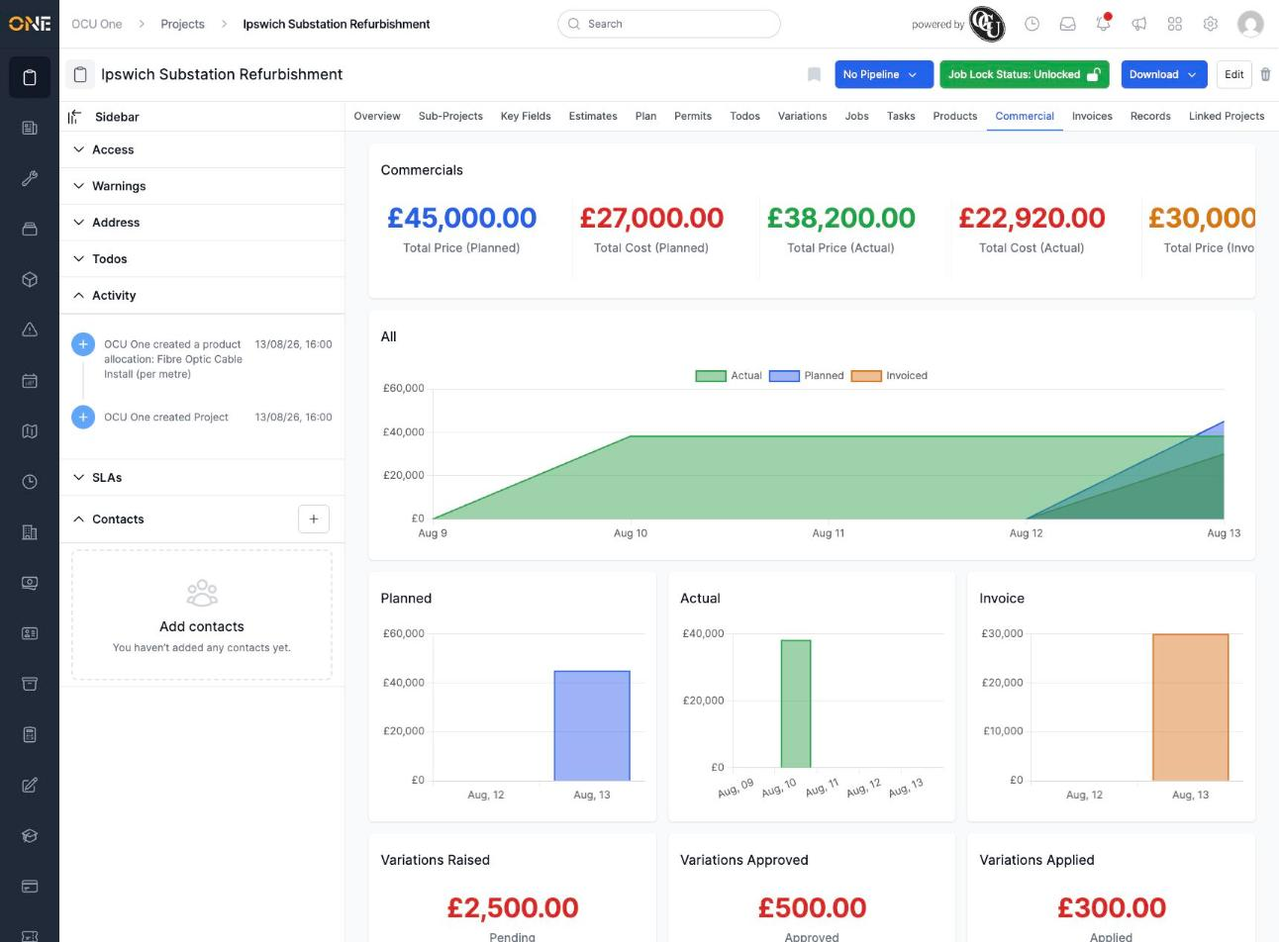
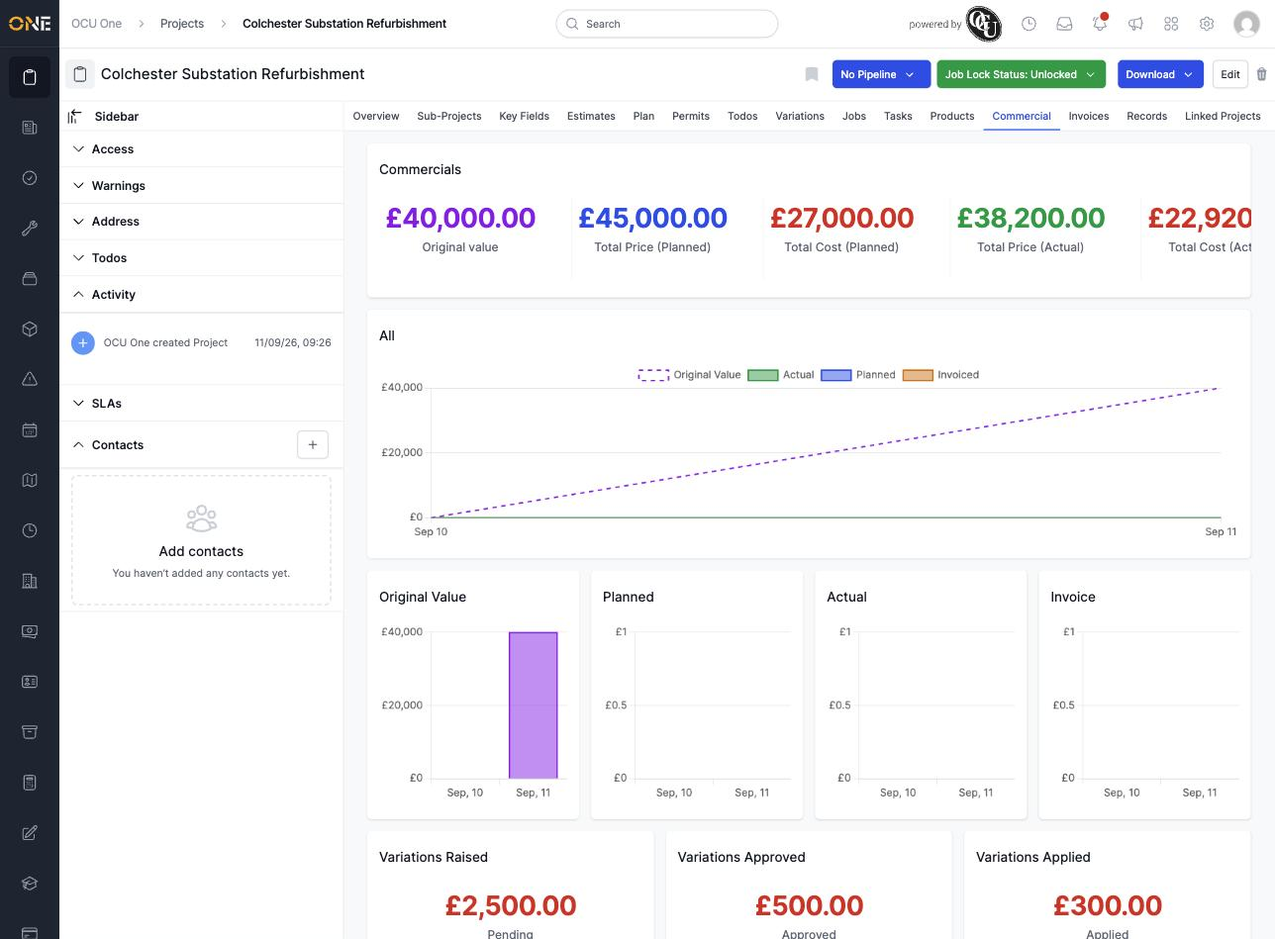
updated guides

diff --git a/_progress.md b/_progress.md
@@ -50,7 +50,7 @@ For the full chain — this sync plus the required `_VERIFICATION.md` and `READM
 | Customizing which columns appear in a list/table view | Views | Ops | ColumnsController#new/#autocomplete; columns/column_component; scenes/view/view_options_component | done | Projects list with columns Reference, Total Price (Planned), Client Lead added then reordered (no literal "Project Number"/"Total (ex VAT)" fields exist; these are the closest real on-screen equivalents) | 4 | 2026-08-16 | v2026.08.02 | |
 | Saving current filters/columns as a new personal view | Views | Ops, FE | ViewsController#create; scenes/view/view_options_component | done | Filtered Jobs list ("Status = In Progress", "Assigned to = me") saved as new view "My Active Jobs" | 3 | 2026-08-16 | v2026.08.02 | |
 | Renaming and updating an existing saved view | Views | Ops | ViewsController#update | done | Renaming view "Overdue Tickets" to "Overdue Tickets - This Week" after adding a Created-at filter (no due-date field exists on Tickets) | 2 | 2026-08-16 | v2026.08.02 | |
-| Switching between saved views on a list screen | Views | Ops, FE | ViewsController#show; scenes/view_component (view tabs) | needs update | Jobs list with tabs "Default view", "My Active Jobs" (favourited), "Unscheduled Jobs"; plus a Tasks-type saved view ("My Open Tasks") opened via a direct link | 3 | 2026-09-06 | v2026.08.04 (from v2026.08.02) | ViewsController#show's redirect for a Tasks-type view changed from `redirect_back_top` to `redirect_to tasks_path(view_id:)` — re-verify the direct-link "My Open Tasks" screenshot flow still matches |
+| Switching between saved views on a list screen | Views | Ops, FE | ViewsController#show; scenes/view_component (view tabs) | done | Jobs list with tabs "Default view", "My Active Jobs" (favourited), "Unscheduled Jobs"; plus a Tasks-type saved view ("My Open Tasks") opened via a direct link | 3 | 2026-09-11 | v2026.09.01 (from v2026.08.04) | |
 | Favouriting a saved view | Views | Ops, FE | ViewsController#favourite | done | Favouriting "Unscheduled Jobs" view (yellow star badge) | 1 | 2026-08-16 | v2026.08.02 | |
 | Managing all your saved views ("My Views") | Views | Ops | ViewsController#index/#edit/#move/#activate/#deactivate/#destroy | done | User with 5 saved views across Jobs/Tickets, one deactivated ("Old Backlog"), reordering two views | 4 | 2026-08-16 | v2026.08.02 | |
 | Managing saved views (admin) | Views | Admin | Settings::ViewsController#index/#filter/#edit/#update/#activate/#deactivate/#destroy | done | Admin Marcus Webb renaming Priya Nair's "Old Backlog" view, deactivating and reactivating it, then deleting it via the fixed settings-scoped Delete link | 8 | 2026-09-03 | v2026.08.04 (from v2026.08.02) | |
@@ -261,7 +261,7 @@ For the full chain — this sync plus the required `_VERIFICATION.md` and `READM
 | Viewing and moving projects on the pipeline (kanban) board |  | Sales, Ops | Orders::PipelinesController#index/show; OrdersController#stage | done | Existing "Sales" pipeline (New/Qualified/Awaiting Site Visit/Quoting/Negotiating/Won/Lost); dragged "Fibre Duct Replacement - Oldham" Quoting → Won | 4 | 2026-08-26 | v2026.08.05 | |
 | Creating a new project |  | Sales, Ops | OrdersController#new/#create | done | Project type "Install" for client "Anglian Water", rate book "2026 Civils Rates" | 5 | 2026-08-26 | v2026.08.05 | |
 | Creating a sub-project (child project) under an existing project |  | Ops | OrdersController#new (parent_id) | done | Parent project "Streetworks Renewal - Zone 4" with new sub-project "Zone 4 - Section B" | 3 | 2026-08-26 | v2026.08.05 | |
-| Viewing a project's overview (main tab) |  | Ops | OrdersController#show/#main | needs update | Project "123 High Street Resurfacing" with parent, 2 children | 4 | 2026-08-26 | v2026.08.05 | New "Original Value" field now shown on the overview when the project has one captured (app/views/orders/_order.html.erb) |
+| Viewing a project's overview (main tab) |  | Ops | OrdersController#show/#main | done | Project "123 High Street Resurfacing" with parent, 2 children, Original Value £18,500 vs current Total Price (Planned) £22,000 | 4 | 2026-09-11 | v2026.09.01 (from v2026.08.05) | |
 | Editing a project's details |  | Ops | OrdersController#edit/#update | done | Project's rate book changed and next-action date moved | 3 | 2026-08-26 | v2026.08.05 | |
 | Deleting (archiving) a project |  | Ops | OrdersController#destroy | done | Completed project with no open jobs, deleted | 2 | 2026-08-26 | v2026.08.05 | |
 | Managing sub-projects on the Children tab |  | Ops | OrdersController#children | done | Project "Streetworks Renewal - Zone 4" with 3 child projects, one over budget | 2 | 2026-08-26 | v2026.08.05 | |
@@ -275,10 +275,10 @@ For the full chain — this sync plus the required `_VERIFICATION.md` and `READM
 | Viewing and filtering tasks on a project |  | Ops | OrdersController#tasks; Orders::TasksController#filter | done | Project filtered by Status="In Progress", Task Type="Site Survey" | 2 | 2026-08-27 | v2026.08.05 | |
 | Creating a new task under a project |  | Ops | Orders::TasksController#new/#create | done | Task type "Site Survey" named "Initial roof survey" with product allocation | 3 | 2026-08-27 | v2026.08.05 | |
 | Viewing and working a task's overview tab |  | Ops, FE | Orders::TasksController#show/#main | done | Task status changed Not Started → In Progress; download PDF | 4 | 2026-08-27 | v2026.08.05 | |
-| Managing a task's product allocations tab | PVA | Ops | Orders::TasksController#products | needs update | Task planned quantity for "Solar Panel 400W" changed 12 → 14 | 2 | 2026-08-13 | v2026.08.02 | The "Add Product" control is now hidden entirely for Task allocatables (app/views/product_allocations/index.html.erb) — re-verify whether this tab still supports adding products at all |
+| Managing a task's product allocations tab | PVA | Ops | Orders::TasksController#products | done | Task "Install Panels - Roof Section A" on project "Riverside Depot Solar Installation"; Solar Panel 400W allocated 12 units from the project's 30, planned quantity changed 12 → 14, 10 units recorded as actually used | 2 | 2026-09-11 | v2026.09.01 (from v2026.08.02) | |
 | Editing or deleting a task |  | Ops | Orders::TasksController#edit/#update/#destroy | done | Rename a task; delete a duplicate task | 2 | 2026-08-27 | v2026.08.05 | |
 | Viewing and managing product allocations on a project | PVA | Ops, Fin | OrdersController#products | done | Project allocated 200m "Ducting 100mm" and 15 "Chamber Cover" | 3 | 2026-08-13 | v2026.08.02 | |
-| Viewing a project's commercial stats dashboard | PVA | Fin, Mgr | OrdersController#stats | needs update | Project with £45k planned, £38.2k actual, £30k invoiced, £2.5k pending variations | 3 | 2026-08-13 | v2026.08.03 | New "Original Value" stat tile and column chart now shown when the project has an original value captured; existing planned/actual/invoice charts shrink from 4 to 3 columns to make room (app/views/orders/tabs/stats.html.erb) |
+| Viewing a project's commercial stats dashboard | PVA | Fin, Mgr | OrdersController#stats | done | Project "Colchester Substation Refurbishment", £40k original value vs £45k current planned, £38.2k actual, £30k invoiced, £2.5k pending / £500 approved / £300 applied variations | 3 | 2026-09-11 | v2026.09.01 (from v2026.08.03) | |
 | Viewing and creating estimates on a project |  | Sales, Fin | OrdersController#estimates | done | Project with 1 draft and 1 approved estimate (£12,400) | 2 | 2026-08-27 | v2026.08.05 | |
 | Viewing and creating invoices on a project |  | Fin | OrdersController#invoices | done | Project with 1 sent invoice (£15,000) and 1 unsent draft (£8,200) | 2 | 2026-08-27 | v2026.08.05 | |
 | Viewing and raising variations on a project |  | Fin, Ops | OrdersController#variations | done | Project with 1 pending (£2,500) and 1 approved (£900) variation | 2 | 2026-08-27 | v2026.08.05 | |
@@ -349,14 +349,14 @@ For the full chain — this sync plus the required `_VERIFICATION.md` and `READM
 | Guide | Feature | Audience | Maps to (controllers/views) | Status | Test data needed | Screenshot steps (est.) | documented_at | Release | Change notes |
 |-------|-------|----------|------------------------------|--------|-------------------|--------------------------|----------------|-------|-------|
 | Using the Timesheets landing page | Timesheets | FE, Ops | TimesheetsController#landing | done | N/A — static entry page, viewed as Priya Nair (Ops) | 1 | 2026-09-04 | v2026.08.04 | |
-| Clocking in and starting a shift | Timesheets | FE | TimesheetsController#start_shift_form/#start_shift | needs update | Project code "PC-2026-OFFICE", planned duration 8h | 3 | 2026-08-15 | v2026.08.02 | Starting a shift while one is already active now shows a proper error message on the form (previously silent/unclear) |
+| Clocking in and starting a shift | Timesheets | FE | TimesheetsController#start_shift_form/#start_shift | done | Project code "PC-2026-OFFICE", planned duration 8h; Tom Fletcher hitting the "already have an active shift" error on a stale Start Shift panel | 4 | 2026-09-11 | v2026.09.01 (from v2026.08.02) | |
 | Ending a shift and confirming hours worked | Timesheets | FE | TimesheetsController#end_shift_form/#end_shift/#confirm_shift | done | Shift started 08:00 at "Riverside Substation", ended 16:30 | 3 | 2026-08-15 | v2026.08.02 | |
 | Viewing and editing an individual timesheet | Timesheets | FE, Mgr | TimesheetsController#show/new/edit/update/destroy | done | Timesheet "J. Smith - Approved", 04/08/2026, duration changed from 8h15m to 12h30m, project "Tesco Door Install" | 6 | 2026-09-03 | v2026.08.04 (from v2026.08.02) | |
 | Logging a break or other shift event | Timesheets | FE | EventsController CRUD (top-level, not namespaced) | done | Event "Lunch Break" 12:00, 30 min | 3 | 2026-08-15 | v2026.08.02 | |
 | Browsing all timesheets in the table view | Timesheets | Mgr, Fin | TimesheetsController#index/#filter | done | Filter status=pending, group="North Region Engineers" | 3 | 2026-08-15 | v2026.08.02 | |
 | Approving or denying timesheets for your team (weekly review grid) | Timesheets | Mgr | TimesheetsController#review/#status/#bulk_status | done | Week of 2026-08-10, manager Sarah Whitfield reviewing Tom Fletcher and Aisha Rahman's 5 pending entries; right-click approve, right-click deny, and the whole-week Total-cell bulk action | 8 | 2026-09-04 | v2026.08.04 (from v2026.08.02) | |
 | Adding or editing a timesheet entry from the review grid | Timesheets | Mgr | TimesheetsController#review_new/#review_create/#review_edit/#review_update/#review_entry_status | done | User "A. Fieldworker", date 2026-08-11, category "Overtime", 2h | 4 | 2026-08-15 | v2026.08.02 | |
-| Rounding or splitting a timesheet entry during review | Timesheets | Mgr | TimesheetsController#round/#split | needs update | Split shift 22:00–06:00 at midnight; round start to nearest 15 min | 3 | 2026-08-15 | v2026.08.02 | Split-time picker's midnight clamping logic reworked (wraparound-safe minutes math) — re-verify the 22:00–06:00 overnight split screenshot still behaves the same |
+| Rounding or splitting a timesheet entry during review | Timesheets | Mgr | TimesheetsController#round/#split | done | Split shift 22:00–06:00 at midnight (default 02:00, and a custom 00:30 split); round start to nearest hour | 4 | 2026-09-11 | v2026.09.01 (from v2026.08.02) | |
 
 ## Timesheet Timeline
 
@@ -534,7 +534,7 @@ For the full chain — this sync plus the required `_VERIFICATION.md` and `READM
 | Viewing and editing a product                        | PVA     | Admin, Fin | ProductsController#show/#main/#edit/#update/#delete_photo | done   | Product "HV Cable per metre" with photo and ref code                      | 3                       | 2026-08-26    | v2026.08.05 | |
 | Deleting a product                                   | PVA     | Admin, Fin | ProductsController#destroy                                | done   | Parent product with 3 sub-products, cascade-delete                        | 2                       | 2026-08-26    | v2026.08.05 | |
 | Managing sell rates on a product                     | PVA     | Fin, Admin | ProductsController#rates; RatesController (as :rates)     | done   | Sell rate £14.50/m for "HV Cable per metre" under "2026 Wind Rates" v1    | 4                       | 2026-08-13    | v2026.08.03 | |
-| Managing cost rates on a product                     | PVA     | Fin, Admin | ProductsController#costs; RatesController (as :costs)     | needs update   | Product "HV Cable per metre" with sell rate under "2026 Wind Rates" and cost rate £9.20/m under "Internal Costs 2026" v1; new cost rate added and existing one edited | 5                       | 2026-09-03    | v2026.08.04 (from v2026.08.03) | Form copy now says "Cost Book" instead of "Rate Book" for cost rates — update the guide's text for this. The Cancel-button bug (`cancelling-a-new-cost-rate-lands-on-the-rates-tab-not-costs`) is NOT fixed — re-verified live 2026-09-10, still lands on Rates tab; keep the guide's existing caveat about it. |
+| Managing cost rates on a product                     | PVA     | Fin, Admin | ProductsController#costs; RatesController (as :costs)     | done   | Product "HV Cable per metre" with cost rate £9.20/m under "Internal Costs 2026" v1; new cost rate added and existing one edited | 5                       | 2026-09-11    | v2026.09.01 (from v2026.08.04) | |
 | Viewing a product's sub-products                     | PVA     | Admin, Fin | ProductsController#sub_products                           | done   | Parent "Groundworks" with 2 sub-products                                  | 2                       | 2026-08-26    | v2026.08.05 | |
 
 ## Product Allocations
@@ -797,9 +797,9 @@ For the full chain — this sync plus the required `_VERIFICATION.md` and `READM
 
 ## Summary
 
-Completed: 169 / 399
+Completed: 176 / 399
 
-Needs update: 7
+Needs update: 0
 
 Access & Visibility guides completed: 3 / 3
 
@@ -807,13 +807,13 @@ Media & Attachments guides completed: 2 / 2
 
 Product Allocations guides completed: 7 / 7
 
-Products & Rates guides completed: 10 / 11
+Products & Rates guides completed: 11 / 11
 
-Projects guides completed: 30 / 33
+Projects guides completed: 33 / 33
 
-Timesheets guides completed: 16 / 18
+Timesheets guides completed: 18 / 18
 
-Views guides completed: 8 / 9
+Views guides completed: 9 / 9
 
 Tickets guides completed: 12 / 12
 
@@ -863,4 +863,4 @@ Release breakdown (current version only, for `done` rows):
 - v2026.08.03: 9
 - v2026.08.04: 45
 - v2026.08.05: 95
-- v2026.09.01: 1
+- v2026.09.01: 8

diff --git a/Projects/_VERIFICATION.md b/Projects/_VERIFICATION.md
@@ -15,16 +15,16 @@ Tracks whether a human has actually checked each guide against the live app — 
 
 | Guide | Verified | Verified by | Date | Version | Notes | Blocked |
 | ----- | -------- | ------------ | ---- | ------- | ----- | ----- |
-| Managing a task's product allocations tab | No |  |  | v2026.08.02 | Code drift found 2026-09-10: the "Add Product" control is now hidden entirely for Task allocatables — re-verify whether this tab still supports adding products at all. |  |
+| Managing a task's product allocations tab | No |  |  | v2026.09.01 | Confirmed live: a task's Products tab no longer shows a "+ Product" button at all (previously showed either an active or disabled version) — tasks can only receive products via "Allocate from" a project that already has them planned. |  |
 | Viewing and managing product allocations on a project | No |  |  | v2026.08.02 |  |  |
-| Viewing a project's commercial stats dashboard | No |  |  | v2026.08.03 | Code drift found 2026-09-10: new "Original Value" stat tile and column chart now shown when the project has one captured; other charts shrink from 4 to 3 columns to make room. |  |
+| Viewing a project's commercial stats dashboard | No |  |  | v2026.09.01 |       |  |
 | Browsing and filtering the projects list | No |  |  | v2026.08.05 | Seeded under the existing "Install" project type/pipeline rather than a fresh type — a freshly-created type has no PermissionSet rows wired up, making its records invisible to everyone regardless of Access visibility (confirmed directly: a fresh "Civils Installation" type's projects 404'd as "no permission" for their own owner). Also: "Install" has a leftover dev-fixture field set ("TEST - Activity Log Evidence") attached, requiring a "Test Field" value on every project of that type — satisfied with a placeholder "N/A" value, harmless but worth an engineer's eye if that fixture is ever meant to be removed. |  |
 | Exploring projects as a relationship graph | No |  |  | v2026.08.05 | **Confirmed product bug, not a data or environment issue**: the Explore view's JS client (`app/javascript/controllers/orders/explore_controller.js`) requests graph data via `GET`, but the server route (`POST /orders/explores/filter`) only accepts `POST` — every request 404s, so the graph canvas never populates for anyone. The guide documents intended behaviour from the code/view template and flags this clearly rather than showing a fabricated working screenshot. | Yes: projects-explore-graph-never-loads.md |
 | Browsing projects in drilldown (hierarchy) view | No |  |  | v2026.08.05 | The row's own title link navigates straight to the project's page — the folder *icon* (not the title) is what drills into children. Worth confirming this distinction reads clearly in the guide. |  |
 | Viewing and moving projects on the pipeline (kanban) board | No |  |  | v2026.08.05 | Drag-and-drop worked as a genuine live action here — no automation-safety block encountered, unlike some earlier guides this session. Both before/after screenshots are real captures. |  |
 | Creating a new project | No |  |  | v2026.08.05 | The hint specified a "Civils Installation" project type — used the existing "Install" type instead (a freshly-created type has no PermissionSet rows wired up, making its records invisible to everyone, a bug already hit and worked around in Batch 1 of this section). No automation-safety block — the "Create Project" click was genuine and live. |  |
 | Creating a sub-project (child project) under an existing project | No |  |  | v2026.08.05 | Genuine live click throughout; no adaptation needed. The sub-project correctly inherited the parent's client automatically. |  |
-| Viewing a project's overview (main tab) | No |  |  | v2026.08.05 | The hint's "1 SLA in jeopardy" and "3 activity entries" weren't achieved: no RAG/SLA indicator was visibly rendered on this project type's overview page, and only 1 activity entry (creation) appeared even after adding a comment and changing the RAG status via the model directly — comments and RAG changes don't appear to generate a separate Activity feed entry for Orders in this app version. The guide describes the parent/children structure and overview layout genuinely observed, without claiming the SLA/activity-count details that weren't actually visible. Worth a human double-checking whether SLA jeopardy indicators exist elsewhere on this page. Code drift found 2026-09-10: a new "Original Value" field is now shown on this overview when the project has one captured. |  |
+| Viewing a project's overview (main tab) | No |  |  | v2026.09.01 | The hint's "1 SLA in jeopardy" and "3 activity entries" weren't achieved: no RAG/SLA indicator was visibly rendered on this project type's overview page, and only 1 activity entry (creation) appeared even after adding a comment and changing the RAG status via the model directly — comments and RAG changes don't appear to generate a separate Activity feed entry for Orders in this app version. The guide describes the parent/children structure and overview layout genuinely observed, without claiming the SLA/activity-count details that weren't actually visible. Worth a human double-checking whether SLA jeopardy indicators exist elsewhere on this page. |  |
 | Editing a project's details | No |  |  | v2026.08.05 | Genuine live "Update Project" click, no automation block. The native datetime-local input for "Next action due at" needed careful segment-by-segment typing (day/month/year, then an explicit Right-arrow key press before the time) to avoid the browser's date picker garbling the value — not a guide-relevant detail, just a note for future automation. Confirmed the Project Type field is genuinely locked (shown as plain text, not a dropdown) on the edit form. |  |
 | Deleting (archiving) a project | No |  |  | v2026.08.05 | Genuine live delete — the confirmation dialog's "Yes" button was clicked for real, no automation-safety block encountered for this action (unlike Create/Update actions in some earlier guides this session). Confirmed via direct query that the project is archived, not destroyed. |  |
 | Managing sub-projects on the Children tab | No |  |  | v2026.08.05 | The hint's "one over budget" indicator wasn't achievable — no visible budget/over-spend flag rendered on the Sub-Projects table in this environment (price columns showed "None" throughout, matching the earlier finding on "Viewing a project's overview" that RAG/budget indicators aren't reliably visible here). The guide describes the table's real columns as observed rather than claiming a budget-status indicator exists. |  |

diff --git a/Timesheets/_VERIFICATION.md b/Timesheets/_VERIFICATION.md
@@ -17,14 +17,14 @@ Tracks whether a human has actually checked each guide against the live app — 
 
 | Guide                                                                        | Verified | Verified by | Date | Version     | Notes |
 | ----------------------------------------------------------------------------- | -------- | ----------- | ---- | ----------- | ----- |
-| Clocking in and starting a shift                                             | No       |             |      | v2026.08.02 | Code drift found 2026-09-10: starting a shift while one is already active now shows a proper error message on the form. |
+| Clocking in and starting a shift                                             | No       |             |      | v2026.09.01 |       |
 | Ending a shift and confirming hours worked                                   | No       |             |      | v2026.08.02 |       |
 | Viewing and editing an individual timesheet                                  | No       |             |      | v2026.08.04 | Rewritten 2026-09-03 to cover the Active Duration field's 18-hour cap. Not yet human-verified. |
 | Logging a break or other shift event                                        | No       |             |      | v2026.08.02 |       |
 | Browsing all timesheets in the table view                                   | No       |             |      | v2026.08.02 |       |
 | Approving or denying timesheets for your team (weekly review grid)          | No       |             |      | v2026.08.04 | Rewritten 2026-09-04 to cover the bulk-update failure error banner. Not yet human-verified. |
 | Adding or editing a timesheet entry from the review grid                    | No       |             |      | v2026.08.02 |       |
-| Rounding or splitting a timesheet entry during review                       | No       |             |      | v2026.08.02 | Code drift found 2026-09-10: split-time picker's midnight clamping logic reworked (wraparound-safe minutes math) — re-verify the 22:00–06:00 overnight split screenshot. |
+| Rounding or splitting a timesheet entry during review                       | No       |             |      | v2026.09.01 | Confirmed live: typing a custom split time near midnight (e.g. 00:30) now works correctly — removed the old in-guide caveat calling this unreliable. |
 | Using the Timesheets landing page                                           | No       |             |      | v2026.08.04 | Newly written 2026-09-04. Not yet human-verified. |
 | Managing project codes, timesheet categories, and timesheet addition types  | No       |             |      | v2026.08.04 | Newly written 2026-09-09. Not yet human-verified. |
 

diff --git a/Projects/Viewing an projects commercial stats dashboard.md b/Projects/Viewing an projects commercial stats dashboard.md
@@ -14,6 +14,7 @@ Open a project and look at the row of tabs across the top (Overview, Sub-Project
 
 At the top of the Commercial tab is a row of numbers under the heading **Commercials**, pairing what will be charged to the client against what it's costing to deliver:
 
+- **Original Value** — only shown if the project had a planned value recorded early on. It's a snapshot of what the project was originally planned to be worth, and it stays fixed even if the current planned figure later changes — so you can always see what was first agreed alongside what's now planned. In this example, the project was originally valued at £40,000.00, but its Total Price (Planned) has since grown to £45,000.00.
 - **Total Price (Planned)** — the value of everything that's been planned for this project so far.
 - **Total Cost (Planned)** — what that planned work is expected to cost.
 - **Total Price (Actual)** — the value of the work actually completed/recorded against that plan.
@@ -33,10 +34,10 @@ The row scrolls sideways — keep going right to see Actual, Invoiced, and Left 
 
 ## The charts
 
-Below the headline figures are four price charts, all showing value building up over time (day by day):
+Below the headline figures are price charts, all showing value building up over time (day by day):
 
-- **All** — a combined chart overlaying Actual, Planned, and Invoiced together, so you can see at a glance how they compare.
-- **Planned**, **Actual**, **Invoice** — the same three figures again, but as separate charts so each is easier to read on its own.
+- **All** — a combined chart overlaying Actual, Planned, and Invoiced together (and Original Value too, if the project has one), so you can see at a glance how they compare.
+- **Original Value** — only shown if the project has one recorded, alongside **Planned**, **Actual**, and **Invoice** as separate charts so each is easier to read on its own. When Original Value is shown, these charts sit at four across instead of three, to make room.
 
 ![The combined "All" chart plus the separate Planned, Actual, and Invoice charts](attachments/viewing-an-orders-commercial-stats-dashboard/03-commercial-tab-scrolled.jpg)
 

diff --git a/Projects/Managing a task's product allocations tab.md b/Projects/Managing a task's product allocations tab.md
@@ -8,9 +8,9 @@ Open a project, go to its **Tasks** list, and open a task. On the task's page yo
 
 ![A task's Overview tab, showing its name, task type, priority, and status](attachments/managing-a-tasks-product-allocations-tab/01-task-overview.jpg)
 
-When a task has nothing allocated to it yet, the Products tab looks like this — an empty table with a search box and two buttons above it: **Allocate from** and **+ Product**.
+When a task has nothing allocated to it yet, the Products tab looks like this — an empty table with a search box and an **Allocate from** button above it. Unlike a project or job, a task's Products tab doesn't have its own **+ Product** button — you can only give a task products that have already been planned at the project level, using **Allocate from** below.
 
-![An empty Products tab on a task, with the Allocate from and + Product buttons](attachments/managing-a-tasks-product-allocations-tab/02-products-tab-empty.jpg)
+![An empty Products tab on a task, with the Allocate from button](attachments/managing-a-tasks-product-allocations-tab/02-products-tab-empty.jpg)
 
 ## Giving the task a slice of the project's materials
 
@@ -79,7 +79,6 @@ Once saved, the Products tab shows both figures side by side, so you can see the
 
 ## Other things on this tab
 
-- **+ Product** lets you add something to the task that isn't already planned on the project, rather than pulling from the project's existing plan.
 - **Modify all Products** lets you apply a rate adjustment across everything allocated to the task at once.
 
-These cover less common situations and are worth exploring separately if you need them.
+This covers a less common situation and is worth exploring separately if you need it.

diff --git a/Timesheets/Rounding or splitting a timesheet entry during review.md b/Timesheets/Rounding or splitting a timesheet entry during review.md
@@ -18,6 +18,10 @@ The form suggests a split time roughly halfway through the shift — here, 02:00
 
 Both halves keep the same category, project code and other details as the original — you can edit either one afterwards if they need to differ.
 
+You can also type in your own split time instead of using the suggested one — including a time just after midnight, like 00:30 for an overnight shift. It's handled correctly and splits the entry exactly where you asked:
+
+![An overnight shift split at a custom time of 00:30, becoming a 22:00-00:30 entry and a 00:30-06:00 entry](attachments/rounding-or-splitting-a-timesheet-entry-during-review/07-split-custom-time-result.jpg)
+
 ## Rounding an entry
 
 Rounding is for cleaning up a start or end time that's a few minutes off a round hour — for example, someone clocked in at 08:07 instead of 08:00. Click the **sliders** icon:
@@ -40,5 +44,4 @@ Click **Apply** to confirm. The entry updates immediately — the start time and
 
 - Rounding only ever moves a time to the start of its current or next hour — it doesn't round to the nearest 15 or 30 minutes.
 - You can round the start, the end, or both at once — each has its own independent up/down control, and nothing is applied until you click **Apply**.
-- For an overnight shift, the split time field can be unreliable if you try to type in a custom value near midnight — the suggested default (roughly the midpoint of the shift) is the safest option to use as-is.
 - Both actions can be undone afterwards using **edit** — a split can be reversed by deleting one half and extending the other; a round can be corrected the same way you'd fix any other time.

diff --git a/Views/_VERIFICATION.md b/Views/_VERIFICATION.md
@@ -27,7 +27,7 @@ Tracks whether a human has actually checked each guide against the live app — 
 | ----------------------------------------------------- | -------- | ----------- | ---------- | ----------- | --------------------------------------- |
 | Saving current filters-columns as a new personal view | Yes      | Fraaz Kagzi | 17/08/2026 | v2026.08.02 |                                         |
 | Renaming and updating an existing saved view          | Yes      | Fraaz Kagzi | 17/08/2026 | v2026.08.02 |                                         |
-| Switching between saved views on a list screen        | No      |  |  | v2026.08.04 (from v2026.08.02) | Code drift found 2026-09-10: ViewsController#show's redirect for a Tasks-type view changed from `redirect_back_top` to `redirect_to tasks_path` — re-verify the direct-link "My Open Tasks" flow. |
+| Switching between saved views on a list screen        | No      |  |  | v2026.09.01 |       |
 | Favouriting a saved view                              | Yes      | Fraaz Kagzi | 17/08/2026 | v2026.08.02 |                                         |
 | Managing all your saved views (My Views)              | Yes      | Fraaz Kagzi | 17/08/2026 | v2026.08.02 | Yes: gated by the `manage_views` permission in permission_set_settings (ViewImplicitPolicy#index?), not user.admin, so any role granted that permission can access it. Edit/activate/deactivate/destroy/move further require owning the view or being admin (ViewPolicy#update?). |
 

diff --git a/Products & Rates/_VERIFICATION.md b/Products & Rates/_VERIFICATION.md
@@ -16,7 +16,7 @@ Tracks whether a human has actually checked each guide against the live app — 
 | Guide | Verified | Verified by | Date | Version | Notes | Blocked |
 | ----- | -------- | ------------ | ---- | ------- | ----- | ----- |
 | Managing sell rates on a product | No |  |  | v2026.08.03 |  |  |
-| Managing cost rates on a product | No |  |  | v2026.08.04 | Rewritten 2026-09-03 for cost-specific copy; guide (as written) documents the Cancel-on-new-cost-rate bug as NOT fixed. Code drift found 2026-09-10 looked like a fix; re-verified live same day and the bug is still present (still lands on Rates tab) — needs a rewrite for the "Cost Book"/"Rate Book" copy change only, keep the existing caveat about the bug. | Yes: cancelling-a-new-cost-rate-lands-on-the-rates-tab-not-costs.md |
+| Managing cost rates on a product | No |  |  | v2026.09.01 | Re-verified live 2026-09-11: the "Cost Rate Book" label already matched the guide (the "Cost Book"/"Rate Book" copy-change flag was a false positive — no drift found), and the Cancel-on-new-cost-rate bug is still present (still lands on Rates tab, not Costs) — guide's existing caveat is accurate and unchanged. | Yes: cancelling-a-new-cost-rate-lands-on-the-rates-tab-not-costs.md |
 | Managing rate categories | No |  |  | v2026.08.03 |  |  |
 | Creating a rate book and its versions | No |  |  | v2026.08.03 |  |  |
 | Setting product rates within a rate book version | No |  |  | v2026.08.03 |  |  |

diff --git a/Timesheets/Clocking in and starting a shift.md b/Timesheets/Clocking in and starting a shift.md
@@ -55,4 +55,8 @@ Once you've started a shift, you don't need to reopen this panel to check it's s
 
 A couple of things worth knowing:
 - You can only have one shift active at a time. If you click the clock icon while a shift is already running, you'll see the **End Shift** panel instead of Start Shift.
+- If you already had the Start Shift panel open and a shift gets started in the meantime (for example, from another tab or your mobile app), trying to submit that panel now shows a clear error instead of doing nothing: "You already have an active shift running. End it before starting a new one."
+
+  ![An error message shown when trying to start a shift while one is already active](attachments/clocking-in-and-starting-a-shift/08-start-shift-error.jpg)
+
 - The Project Code field only lets you search and select from codes that have already been set up for your organisation — if the one you need isn't listed, check with your manager or administrator.

diff --git a/Projects/Viewing a project's overview (main tab).md b/Projects/Viewing a project's overview (main tab).md
@@ -15,6 +15,8 @@ Near the top of the page:
 
 The Overview panel itself lists the project's core details — Name, Description, Rate Book, Client, Parent Project, Project Type, the Total Price/Cost figures (Planned, Actual, and Invoiced), the Next Action Due date, Pipeline, and its auto-generated Reference number.
 
+If the project had a planned value recorded early on, an **Original Value** field also appears next to Total Price (Planned) — a snapshot of what the project was originally planned to be worth. It stays fixed even if the current planned figure later changes, so you can always see what was first agreed alongside what's now planned. In this example, the project was originally planned at £18,500.00, but its Total Price (Planned) has since grown to £22,000.00.
+
 ## Sub-Projects
 
 If a project has its own sub-projects, they're listed under the **Sub-Projects** tab.
